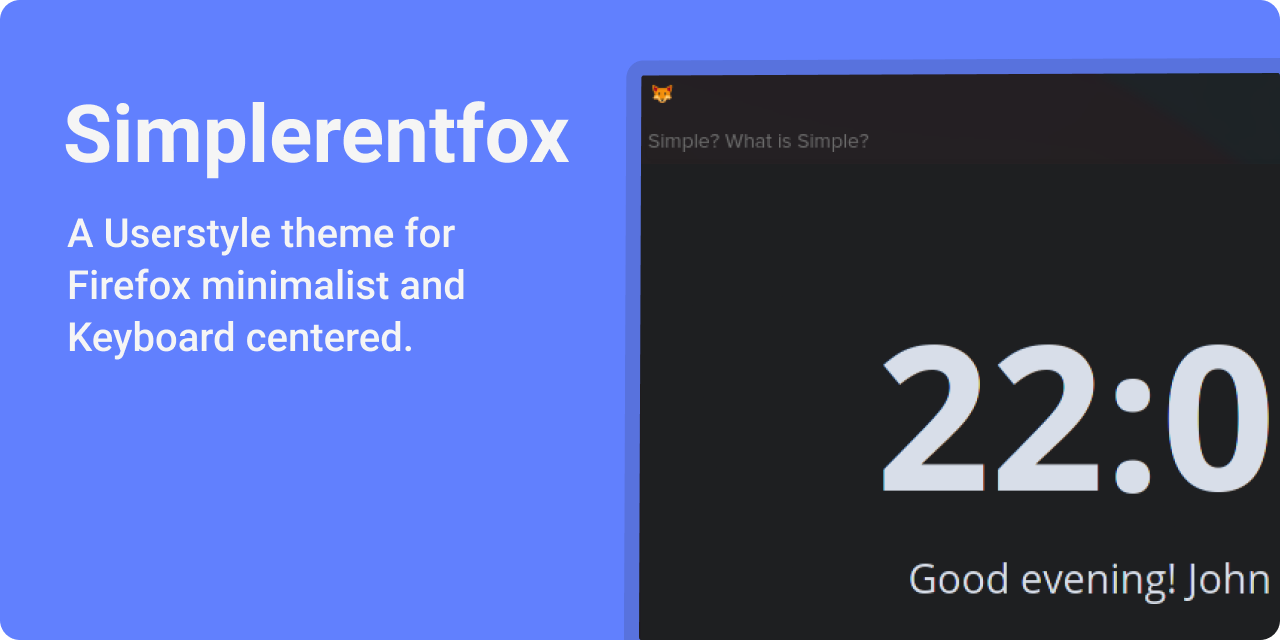
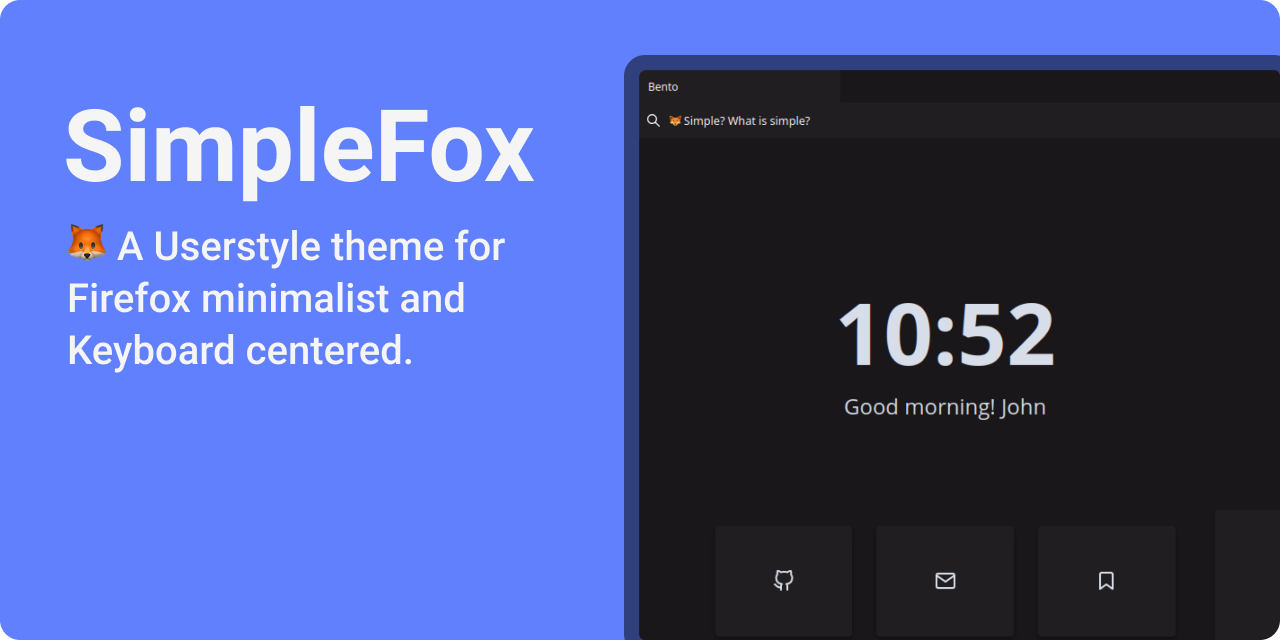
:art: Structure css code

diff --git a/chrome/userChrome.css b/chrome/userChrome.css
@@ -10,23 +10,26 @@ by Miguel Avila
 
 */
 
+/*
+ 
+┌─┐┌─┐┌┐┌┌─┐┬┌─┐┬ ┬┬─┐┌─┐┌┬┐┬┌─┐┌┐┌
+│  │ ││││├┤ ││ ┬│ │├┬┘├─┤ │ ││ ││││
+└─┘└─┘┘└┘└  ┴└─┘└─┘┴└─┴ ┴ ┴ ┴└─┘┘└┘
+
+*/
+
 :root {
-  --toolbar-bgcolor: #1f1d2e !important;
-  --toolbarbutton-border-radius: 0 !important;
-  --tabs-border-color: #1f1d2e !important;
+  --sfbackground: #19171a;
+  --sfsecondary: #201e21;
 }
 
-/* No close button on tabs. */
-.tab-close-button {
-  display: none;
-}
+/* 
+┌─┐┌─┐┬  ┌─┐┬─┐┌─┐
+│  │ ││  │ │├┬┘└─┐
+└─┘└─┘┴─┘└─┘┴└─└─┘ 
+*/
 
-/* Darker colour for inactive tabs */
-#navigator-toolbox {
-  background-color: #191724 !important;
-}
-
-/* Match active tabs with toolbar colour */
+/* Tabs colors  */
 #tabbrowser-tabs:not([movingtab])
   > #tabbrowser-arrowscrollbox
   > .tabbrowser-tab
@@ -41,47 +44,81 @@ by Miguel Avila
   background-color: var(--toolbar-bgcolor) !important;
 }
 
-/* Remove weird gap between pinned and normal tabs. */
+/* Inactive tabs color */
+#navigator-toolbox {
+  background-color: var(--sfbackground) !important;
+}
+
+/* Window colors  */
+:root {
+  --toolbar-bgcolor: var(--sfsecondary) !important;
+  --tabs-border-color: var(--sfsecondary) !important;
+  --lwt-sidebar-background-color: var(--sfbackground) !important;
+}
+
+/* Sidebar color  */
+#sidebar-box,
+.sidebar-placesTree {
+  background-color: var(--sfbackground) !important;
+}
+
+/* 
+
+┌┬┐┌─┐┬  ┌─┐┌┬┐┌─┐            
+ ││├┤ │  ├┤  │ ├┤             
+─┴┘└─┘┴─┘└─┘ ┴ └─┘            
+┌─┐┌─┐┌┬┐┌─┐┌─┐┌┐┌┌─┐┌┐┌┌┬┐┌─┐
+│  │ ││││├─┘│ ││││├┤ │││ │ └─┐
+└─┘└─┘┴ ┴┴  └─┘┘└┘└─┘┘└┘ ┴ └─┘
+
+*/
+
+/* Tabs elements  */
+.tab-close-button {
+  display: none;
+}
+
+.tabbrowser-tab:not([pinned]) .tab-icon-image {
+  display: none !important;
+}
+
 #tabbrowser-tabs[haspinnedtabs]:not([positionpinnedtabs])
   > #tabbrowser-arrowscrollbox
   > .tabbrowser-tab[first-visible-unpinned-tab] {
   margin-inline-start: 0 !important;
 }
 
-/* Remove margin around tabs */
 :root {
+  --toolbarbutton-border-radius: 0 !important;
   --tab-border-radius: 0 !important;
   --tab-block-margin: 0 !important;
 }
 
-/* Add border between tabs. */
 .tab-background {
-  border-right: 1px solid rgba(0, 0, 0, 0) !important;
+  border-right: 0px solid rgba(0, 0, 0, 0) !important;
   margin-left: -4px !important;
 }
 
-/* The box shadow/border for selected tabs looks weird with the above. */
 .tabbrowser-tab:is([visuallyselected="true"], [multiselected])
   > .tab-stack
   > .tab-background {
   box-shadow: none !important;
 }
 
-/* No gap between last tab and new tab button. */
 .tabbrowser-tab[last-visible-tab="true"] {
   padding-inline-end: 0 !important;
 }
+
 #tabs-newtab-button {
   padding-left: 0 !important;
 }
 
-/* Set URL bar background colour and add a border. */
+/* Url Bar  */
 #urlbar-input-container {
-  background-color: #1f1d2e !important;
+  background-color: var(--sfsecondary) !important;
   border: 1px solid rgba(0, 0, 0, 0) !important;
 }
 
-/* No need for this margin. */
 #urlbar-container {
   margin-left: 0 !important;
 }
@@ -90,13 +127,7 @@ by Miguel Avila
   box-shadow: none !important;
 }
 
-/* Don't show these pointless search buttons in URL bar dropdown */
-.search-one-offs {
-  display: none !important;
-}
-
-/* Don't show icons for bookmark toolbar items; they're kind of pointless as I
-     just have bookmarklets in there with a generic icon. Just the text is enough. */
+/* Bookmarks bar  */
 .bookmark-item .toolbarbutton-icon {
   display: none;
 }
@@ -104,55 +135,60 @@ toolbarbutton.bookmark-item:not(.subviewbutton) {
   min-width: 1.6em;
 }
 
-/* Toolbar stuff I never use. */
-#tracking-protection-icon-container,  /* "Tracking protection */
-      #urlbar-zoom-button,                  /* Zoom indicator in URL bar */
-      #star-button-box,                     /* Bookmark button in URL bar */
-      #pageActionButton,                    /* Page actions dropdown in URL bar */
-      #pageActionSeparator                  /* Now pointless whitespace */ {
+/* Toolbar  */
+#tracking-protection-icon-container,
+#urlbar-zoom-button,
+#star-button-box,
+#pageActionButton,
+#pageActionSeparator {
   display: none;
 }
 
-/* Disable all sorts of things from right-click menu that I never use. */
-#context-navigation, /* back/forward etc. */
-      #context-savepage,
-      #context-pocket,
-      #context-sendpagetodevice,
-      #context-selectall,
-      #context-viewsource,
-      #context-inspect-a11y,
-      #context-sendlinktodevice,
-      #context-openlinkinusercontext-menu,
-      #context-bookmarklink,
-      #context-savelink,
-      #context-savelinktopocket,
-      #context-sendlinktodevice,
-      #context-searchselect,
-      #context-sendimage,
-      #context-print-selection,
-      #tabs-newtab-button,
-      .tab-secondary-label,
-      .urlbarView,
-      #back-button,
-      #PanelUI-button,
-      #forward-button {
+/* Disable elements  */
+#context-navigation,
+#context-savepage,
+#context-pocket,
+#context-sendpagetodevice,
+#context-selectall,
+#context-viewsource,
+#context-inspect-a11y,
+#context-sendlinktodevice,
+#context-openlinkinusercontext-menu,
+#context-bookmarklink,
+#context-savelink,
+#context-savelinktopocket,
+#context-sendlinktodevice,
+#context-searchselect,
+#context-sendimage,
+#context-print-selection,
+#tabs-newtab-button,
+.tab-secondary-label,
+.urlbarView,
+#back-button,
+#PanelUI-button,
+#forward-button {
   display: none !important;
 }
 
-.tabbrowser-tab:not([pinned]) .tab-icon-image {
-  display: none !important;
-}
-/* Tab */
 #context_bookmarkTab,
-      #context_moveTabOptions,
-      #context_sendTabToDevice,
-      #context_reopenInContainer,
-      #context_selectAllTabs,
-      #context_closeTabOptions /* "Close multiple tabs" */ {
+	#context_moveTabOptions,
+	#context_sendTabToDevice,
+	#context_reopenInContainer,
+	#context_selectAllTabs,
+	#context_closeTabOptions /* "Close multiple tabs" */ {
   display: none !important;
 }
 
-/* QF */
+/* 
+
+┌┬┐┬┌┐┌┬┌┬┐┌─┐┬  
+│││││││││││├─┤│  
+┴ ┴┴┘└┘┴┴ ┴┴ ┴┴─┘
+┌─┐┬─┐ ┬         
+├┤ │┌┴┬┘         
+└  ┴┴ └─
+
+*/
 
 #nav-bar:not([tabs-hidden="true"]) {
   box-shadow: none;
